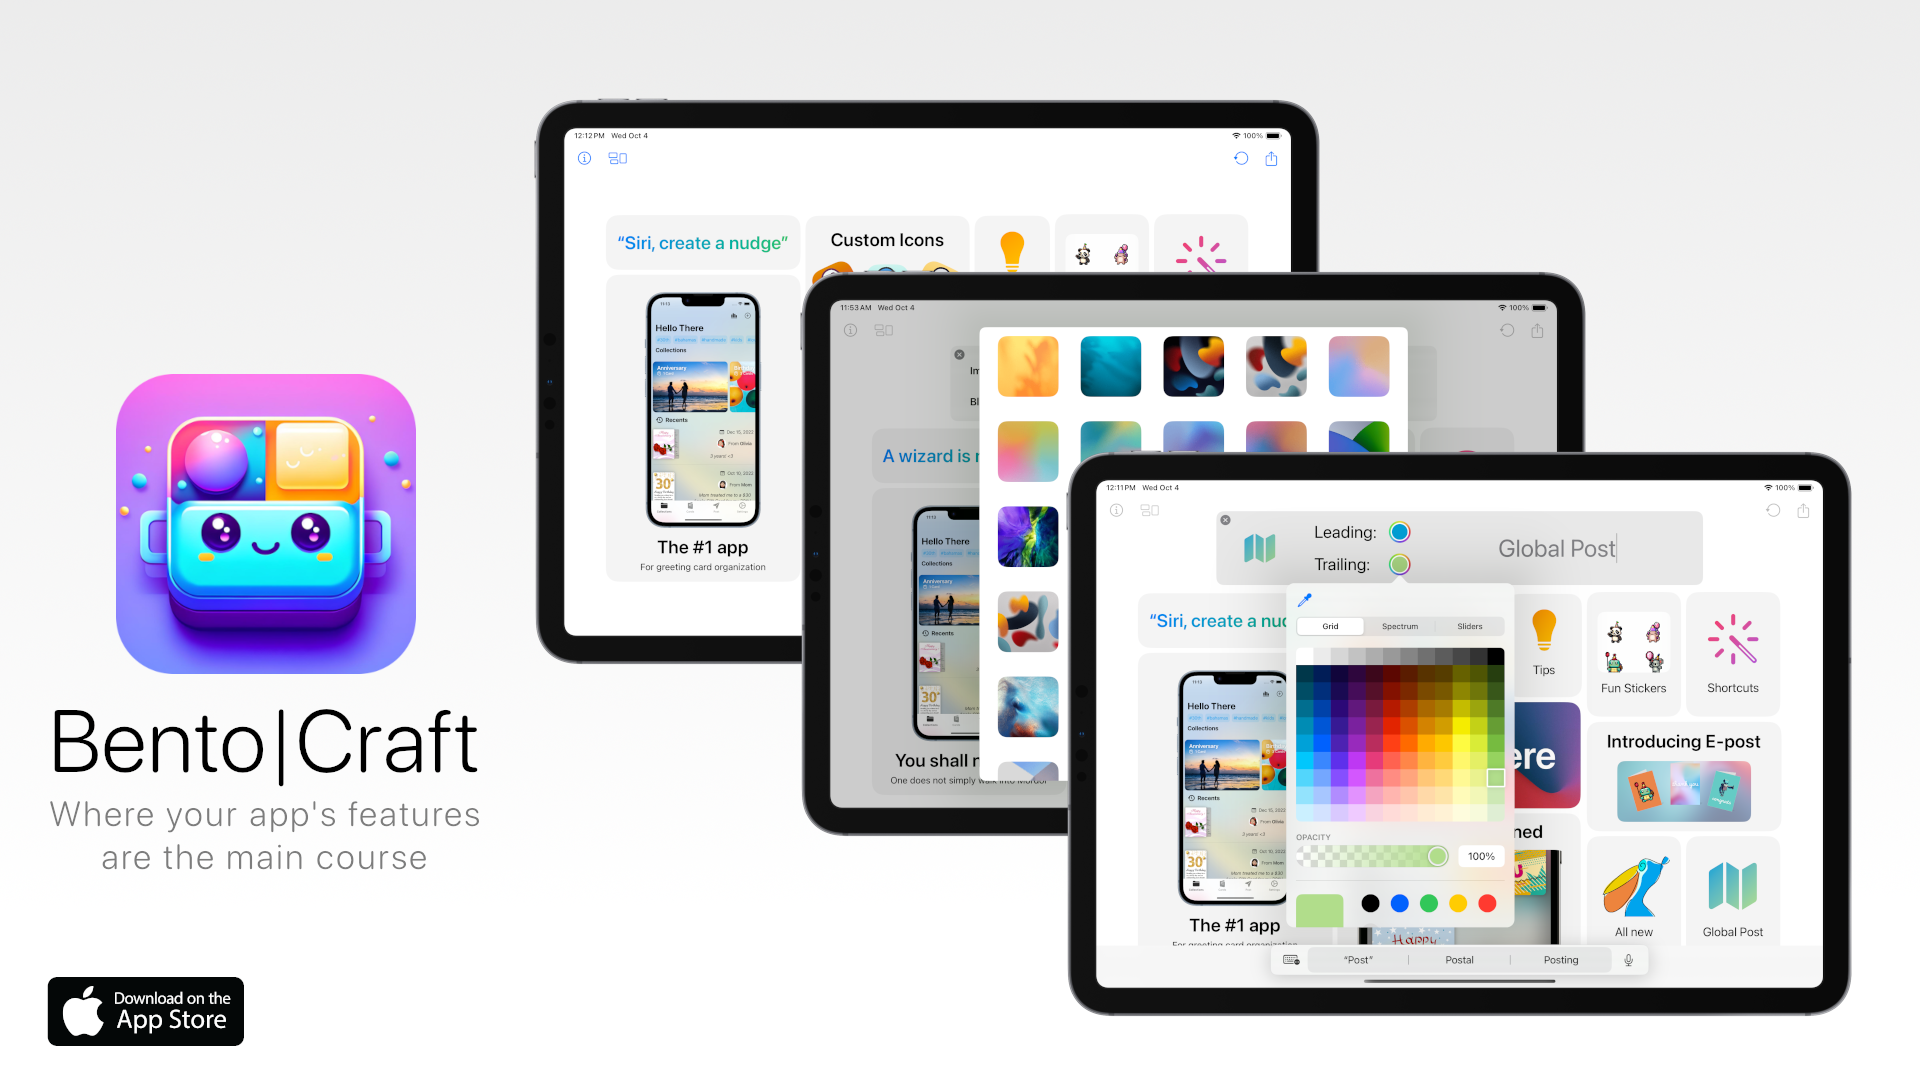
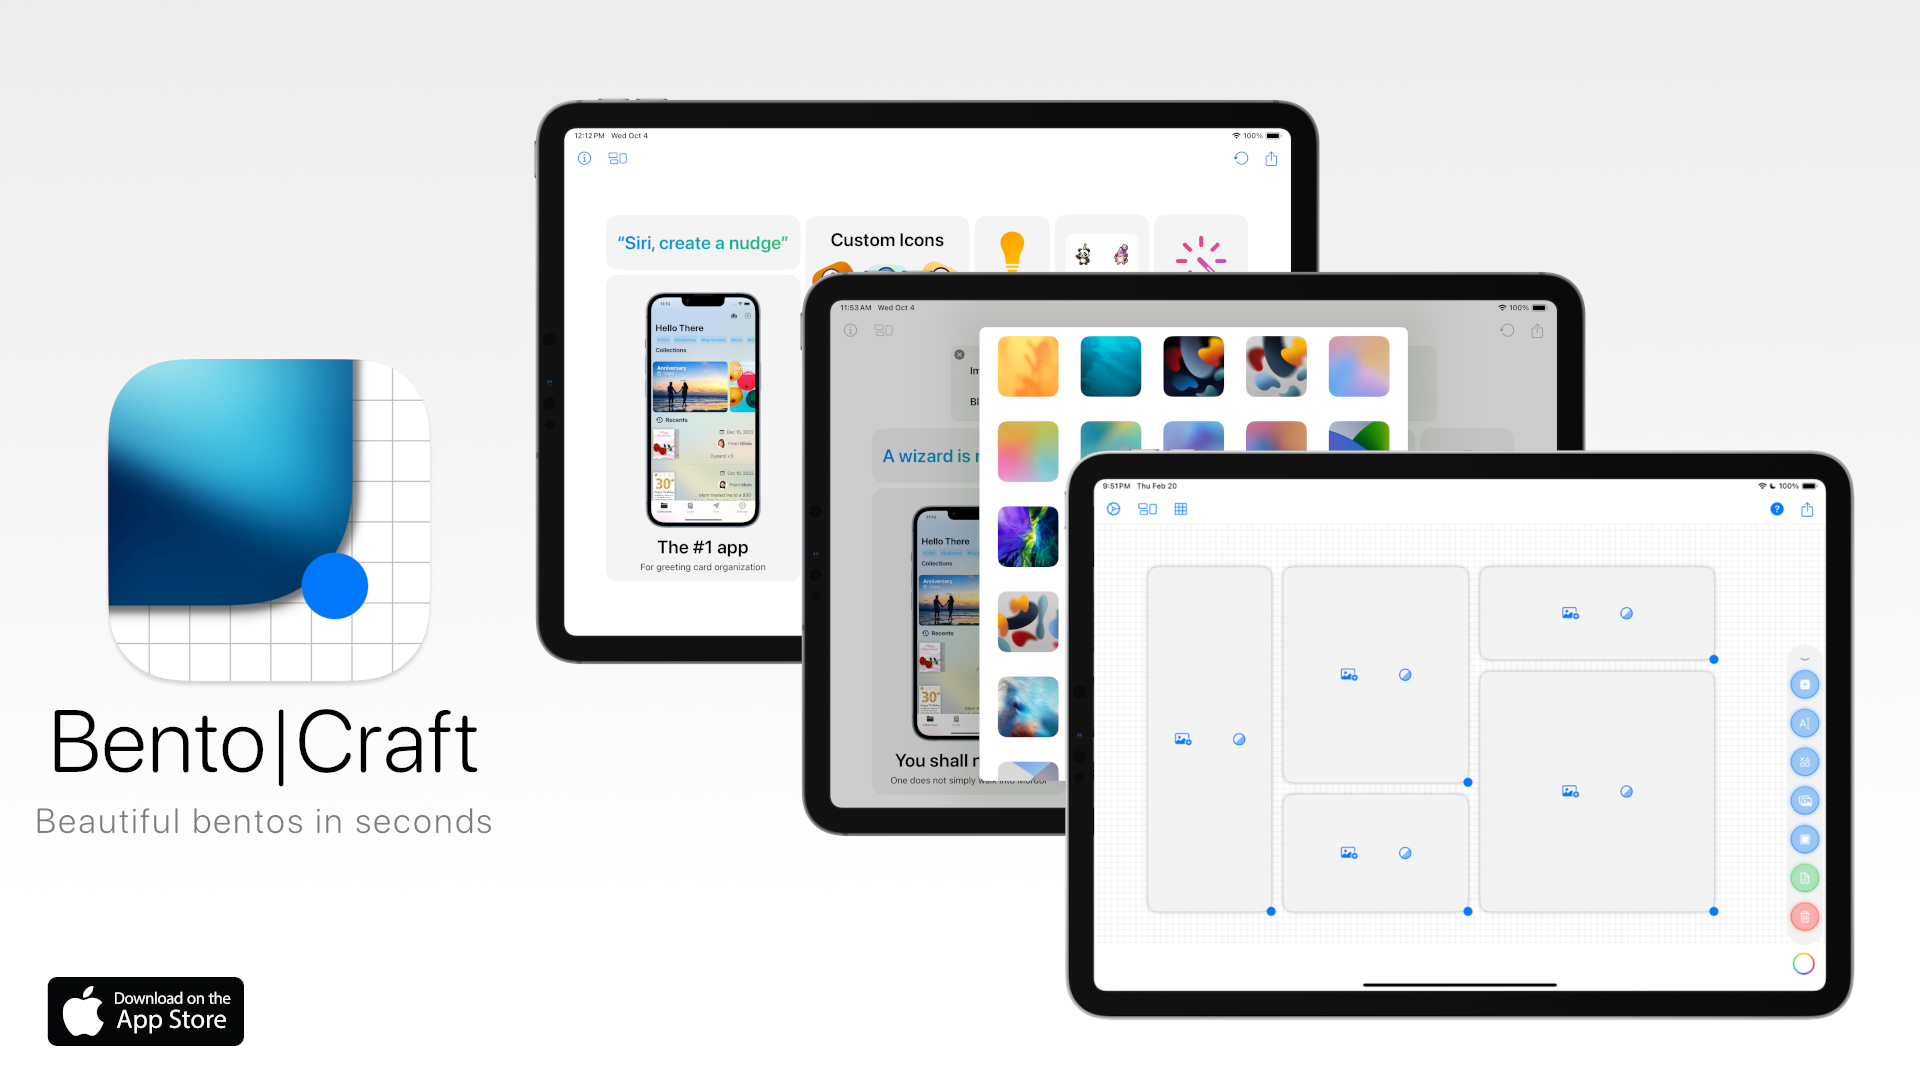
updated bento page with new graphics

diff --git a/_pages/bentocraft.md b/_pages/bentocraft.md
@@ -5,7 +5,7 @@ permalink: /bentocraft
 comments: false
 ---
 
-![Bento Craft](/assets/images/bento/bentocraft-promo2.JPG)  
+![Bento Craft](/assets/images/bento/bentocraft-promo2.png)  
 [**Download**](https://apple.co/45Brl06)  
 
 <br>
@@ -71,8 +71,8 @@ Bento graphics are a proven method to draw attention and efficiently share key i
 ![logo](/assets/images/bento/bentocraft-appstore-3.png){:width="45%"} 
 ![logo](/assets/images/bento/bentocraft-appstore-4.png){:width="45%"} 
 ![logo](/assets/images/bento/bento-frames.png){:width="45%"}
-![iOS logo](/assets/images/bento-icon.png){:width="40%"} 
-![visionOS logo](/assets/images/bentovision/bento-icon-vision.png){:width="50%"} 
+![iOS logo](/assets/images/bento/appicon.png){:width="40%"} 
+![visionOS logo](/assets/images/bento/bento-vision-icon.png){:width="50%"} 
 ![logo](/assets/images/bento/bento-portrait.png){:width="45%"}
 
 <br>
